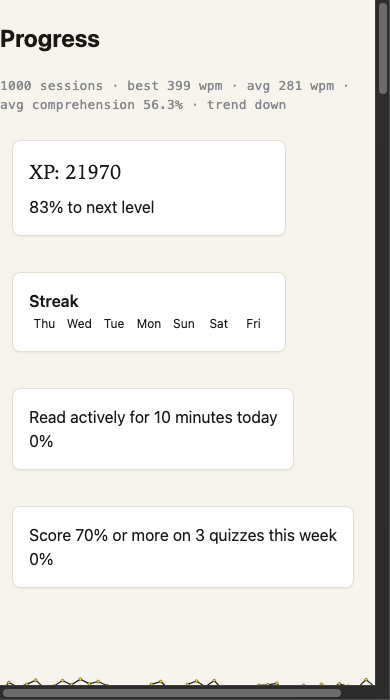
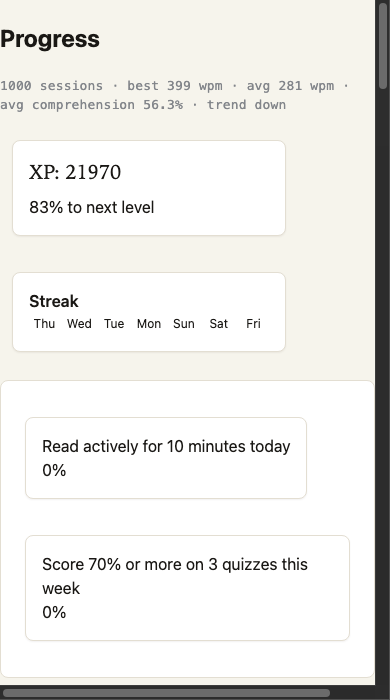
HC-C repair: ticket 28 dashboard+quiz card fidelity; repair wave complete (25-28)

diff --git a/src/ui/dashboard.js b/src/ui/dashboard.js
@@ -217,13 +217,13 @@ export function createDashboard(root, { onStartSession, onExport, onImportJson, 
     const evaluated = evaluateAchievements(sessions, quizzes, {});
     const unlockedIds = evaluated.filter((a) => a.unlocked).map((a) => a.id);
     const recentUnlocks = evaluated.filter((a) => a.unlocked).sort((a, b) => b.unlockedAt - a.unlockedAt).slice(0, 3);
-    const achSection = h('div', { class: 'dashboard-achievements' },
+    const achSection = h('section', { class: 'card dashboard-section dashboard-achievements', 'aria-label': 'Achievements' },
       h('h3', {}, 'Achievements'),
       recentUnlocks.length === 0 ? h('p', {}, 'No achievements yet.') :
         h('ul', {}, ...recentUnlocks.map((a) => h('li', {}, `${a.glyph ?? ''} ${a.title}`.trim()))),
       achievementGrid(evaluated, unlockedIds));
 
-    const recSection = h('div', { class: 'dashboard-records' },
+    const recSection = h('section', { class: 'card dashboard-section dashboard-records', 'aria-label': 'Personal records' },
       h('h3', {}, 'Personal records'),
       recordsList(personalRecords(sessions, { dayMap: dm })));
 
@@ -260,13 +260,13 @@ export function createDashboard(root, { onStartSession, onExport, onImportJson, 
     const kids = [heading, summary, statRow];
     const sugg = suggestionCard(suggestion);
     if (sugg) kids.push(sugg);
-    kids.push(challenges);
+    kids.push(h('section', { class: 'card dashboard-section', 'aria-label': 'Challenges' }, challenges));
     if (sessions.length === 0) {
-      kids.push(empty);
+      kids.push(h('section', { class: 'card dashboard-section' }, empty));
     } else {
-      kids.push(trends);
+      kids.push(h('section', { class: 'card dashboard-section', 'aria-label': 'Trends' }, trends));
       if (toggle) kids.push(toggle);
-      kids.push(table);
+      kids.push(h('section', { class: 'card dashboard-section', 'aria-label': 'Recent laps' }, table));
     }
     kids.push(achSection, recSection, actions);
     root.replaceChildren(...kids);

diff --git a/styles/app.css b/styles/app.css
@@ -361,6 +361,14 @@ label { margin-right: 10px; }
 }
 
 /* S4: quiz */
+.quiz-item {
+  background: var(--color-surface);
+  border: 1px solid var(--rule);
+  border-radius: var(--radius-lg);
+  padding: var(--space-3);
+  margin: var(--space-2) 0;
+}
+.quiz-list { list-style: none; padding: 0; margin: 0; }
 .quiz-question { display: block; margin: 0.5rem 0 0.15rem; }
 .quiz-answer { min-width: 12rem; }
 .quiz-verdict { font-weight: 600; margin: var(--space-1) 0; }
@@ -375,6 +383,18 @@ label { margin-right: 10px; }
 
 /* S5: log lap rows */
 .dashboard-best { border-bottom: 2px solid var(--marker); font-weight: 600; }
+/* S5: card sections + summary typography (prototype direction) */
+#view-dashboard { max-width: 1200px; margin: 0 auto; padding: var(--space-4); }
+.dashboard-section { margin-top: var(--space-4); }
+.dashboard-section h3 { font-family: var(--font-display); font-size: var(--text-lg); margin: 0 0 var(--space-2); }
+.dashboard-statrow { margin-top: var(--space-4); }
+.dashboard-summary-heading { font-size: var(--text-2xl); margin: 0; }
+.dashboard-summary-sub { color: var(--color-text-muted); margin: var(--space-1) 0 var(--space-3); }
+.dashboard-hero { font-family: var(--font-display); font-size: var(--text-2xl); margin: var(--space-3) 0; }
+.dashboard-summary-actions .btn, .dashboard-actions button { margin-right: var(--space-2); }
+.dashboard-table { background: var(--color-surface); }
+.dashboard-records .records { margin-top: 0; }
+.words-bars { max-width: 40rem; }
 /* S5: summary + cards (M-P07B) */
 .dashboard-summary-heading:focus { outline: var(--focus-width) solid var(--focus-color); outline-offset: 2px; }
 .dashboard-hero { font-family: var(--font-data); font-size: var(--text-xl); margin: var(--space-3) 0; }

diff --git a/.autoforge/decisions/log.md b/.autoforge/decisions/log.md
@@ -70,3 +70,4 @@ One line per orchestrator decision. Append-only.
 | 63 | 2026-09-24 | run-003-execute-W5 | M-P08B evidence complete: report-003.md (GO with 1 environmental exception, full §-map, honest limits, v2 irreversibility), README v2 note, ticket 21 resolution. Walkthrough 99/1, unit 177/177, all scripts exit 0. HC-C PENDING; run ends at validation, no push | — |
 | 64 | 2026-09-24 | run-003-deploy | Human ordered merge/push/prod-test. Committed cdbbe89 (156 files, +10504/-1329) on main, pushed origin/main. Pages deploy verified live (markers), production smoke 6/6 (boot, HUD, import, player, focus hiding, zero console errors). HC-C: deploy+prod covered by human direction; screenshot eyeballs + manual checklist + screen-reader pass remain human-only | run-003 work complete; session continues only for human checklist |
 | 65 | 2026-09-24 | run-003-close | Tickets 22/23/24 created for the remainder and executed: 23 closed (noimages fixture, ADR-3 green, walkthrough 100/100 GO); 24 closed (5 cosmetic fixes, token-only, harnesses green); 22 open for the human (screenshots, checklist, screen reader). M-P08B evidence refreshed to full GO. Remaining: human half of HC-C only | run-003 code-complete; 100 passed, 0 failed; unit 177/177 |
+| 66 | 2026-09-24 | run-003-hc-c-repair | HC-C repair wave: 25 mobile bar overlap (nav-only bar + safe-area + padding; hit tests fixed), 26 library fidelity (card shelf, import card, header shell; fixed global text-align leak, toolbar stretch, danger outline, main focus ring), 27 player fidelity (two-column, ruled stage, rail card, speed cluster, F key), 28 dashboard+quiz fidelity (card sections, summary typography, quiz cards). All green: walkthrough 100/100, unit 177/177, a11y 17/17, harnesses+perf green; screenshots re-shot. Tickets 25-28 closed | user-reported: "looks nothing like the prototypes; most buttons not working" — mobile overlap reproduced, prototype visuals never ported; now ported |

diff --git a/.scratch/speedreading-product-build/issues/28-dashboard-quiz-fidelity.md b/.scratch/speedreading-product-build/issues/28-dashboard-quiz-fidelity.md
@@ -13,3 +13,7 @@
 - [ ] Card system applied; summary + log look like the direction
 - [ ] dashboard-perf <100ms; walkthrough 9f green
 - [ ] Screenshots 390/1280 reviewed
+
+## Resolution
+
+Closed 2026-09-24. Dashboard: card sections (challenges, trends, recent laps, achievements, records), summary typography (serif heading/hero, muted sub), table on surface, bars width capped; quiz: answering/review rows as cards with verdict accents. Behavior, aria, copy, perf unchanged. Evidence: dashboard-perf green (<100ms), walkthrough 100/100 GO, unit 177/177, a11y 17/17, screenshots re-shot.
